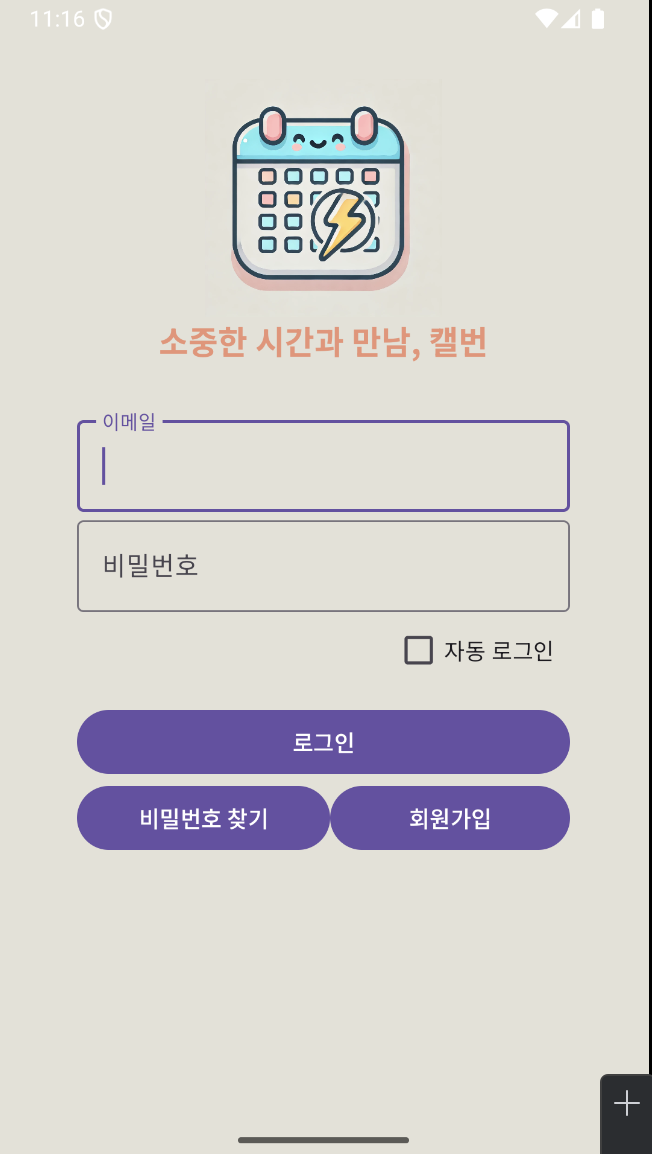
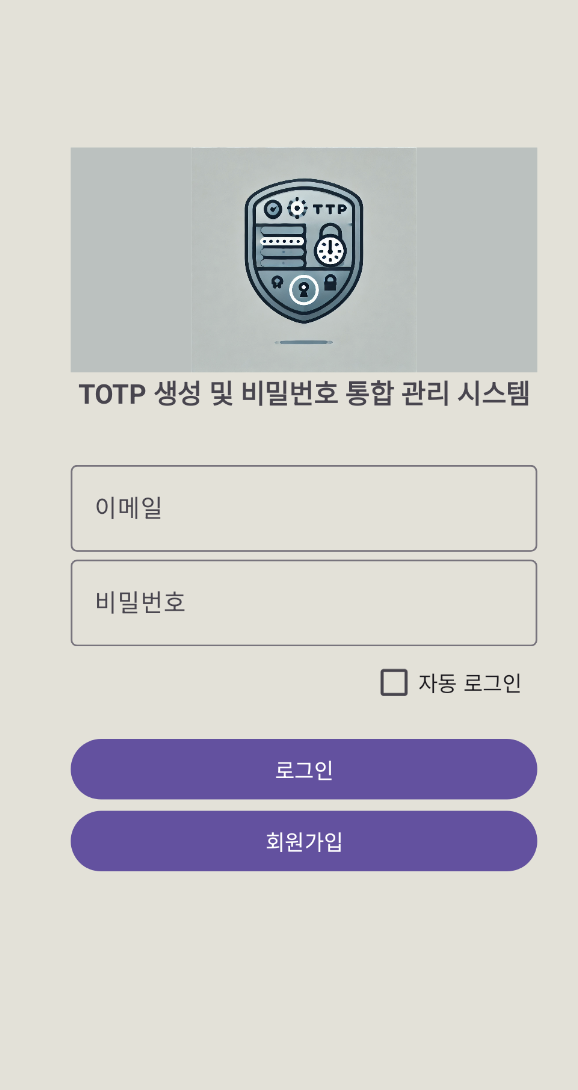
Update: README.md에 들어갈 img 전체 업데이트

diff --git a/backup_file/java_file/frag2.java b/backup_file/java_file/frag2.java
@@ -1,18 +1,141 @@
 package com.cookandroid.mobile_project;
 
+import android.annotation.SuppressLint;
+import android.content.Context;
+import android.content.Intent;
+import android.content.SharedPreferences;
 import android.os.Bundle;
+import android.util.Log;
 import android.view.LayoutInflater;
 import android.view.View;
 import android.view.ViewGroup;
+import android.widget.TextView;
+import android.widget.Toast;
 
+import androidx.activity.result.ActivityResultLauncher;
+import androidx.activity.result.contract.ActivityResultContracts;
 import androidx.annotation.NonNull;
 import androidx.annotation.Nullable;
 import androidx.fragment.app.Fragment;
 
+import com.cookandroid.mobile_project.util.TOTPUtil;
+import com.google.zxing.integration.android.IntentIntegrator;
+import com.google.zxing.integration.android.IntentResult;
+
+import java.net.URI;
+import java.net.URISyntaxException;
+
 public class frag2 extends Fragment {
+    private View scanButton;
+    private ActivityResultLauncher<Intent> qrScanLauncher;
+    private static final String PREFERENCE_NAME = "secure_prefs";
+    private static final String TOTP_SECRET_KEY = "totp_secret";
+    private View showTotpBtn;
+    private TextView totpTxt;
+
+
+    @SuppressLint("MissingInflatedId")
     @Nullable
     @Override
     public View onCreateView(@NonNull LayoutInflater inflater, @Nullable ViewGroup container, @Nullable Bundle savedInstanceState) {
-        return inflater.inflate(R.layout.frag2, container, false);
+        // 뷰 초기화
+        View view = inflater.inflate(R.layout.frag2, container, false);
+        scanButton = view.findViewById(R.id.scanBtn);
+        showTotpBtn = view.findViewById(R.id.showTotpBtn);
+        totpTxt = view.findViewById(R.id.totpTxt);
+
+
+        showTotpBtn.setOnClickListener(v -> {
+            showCurrentTotp();
+        });
+
+        // QR 코드 스캔 결과를 처리하는 ActivityResultLauncher
+        qrScanLauncher = registerForActivityResult(
+                new ActivityResultContracts.StartActivityForResult(),
+                result -> {
+                    IntentResult intentResult = IntentIntegrator.parseActivityResult(result.getResultCode(), result.getData());
+                    if(intentResult != null && intentResult.getContents() != null){
+                        parseAndSaveTotpKey(intentResult.getContents());
+                    } else{
+                        Toast.makeText(requireContext(), "QR 스캔 취소됨", Toast.LENGTH_SHORT).show();
+                    }
+                }
+        );
+
+        // QR 스캔 버튼 클릭 시 카메라 열기
+        scanButton.setOnClickListener(v -> {
+            IntentIntegrator integrator = new IntentIntegrator(requireActivity());
+            integrator.setPrompt("QR 코드를 스캔하세요.");
+            integrator.setOrientationLocked(false);
+            qrScanLauncher.launch(integrator.createScanIntent());
+        });
+
+        return view;
+    }
+
+    @SuppressLint("SetTextI18n")
+    private void parseAndSaveTotpKey(String url){
+        // QR 코드에서 비밀 키를 추출하여 SharedPreferences에 저장하는 함수
+        String secret = extractSecretFromURL(url);
+        if (secret != null){
+            // 비밀 키를 SharedPreferences에 안전하게 저장
+            saveSecretKey(secret);
+            Toast.makeText(requireContext(), "비밀 키 저장됨 : "+secret, Toast.LENGTH_SHORT).show();
+        } else{
+            Toast.makeText(requireContext(), "QR 코드에서 비밀 키를 추출 할 수 없습니다.", Toast.LENGTH_SHORT).show();
+        }
+    }
+
+    private String extractSecretFromURL(String url) {
+        // otpauth:// Url에서 secret 파라미터를 추출하는 함수
+        // ex. secret=JBSWY3DPEHPK3PXP
+        try{
+            URI uri = new URI(url);
+            String query = uri.getQuery();
+            if(query != null){
+                String[] params = query.split("&");
+                for (String param : params){
+                    if(param.startsWith("secret=")){
+                        return param.substring(7);
+                    }
+                }
+            }
+        } catch (URISyntaxException e) {
+            e.printStackTrace();
+        }
+        return null;
+    }
+
+    private void saveSecretKey(String secret){
+        // 비밀 키를 SharedPreferences에 안전하게 저장하는 함수
+        SharedPreferences sharedPreferences = requireActivity().getSharedPreferences(PREFERENCE_NAME, Context.MODE_PRIVATE);
+        SharedPreferences.Editor editor = sharedPreferences.edit();
+        editor.putString(TOTP_SECRET_KEY, secret);
+        editor.apply();
+    }
+
+    private String getSavedSecretKey(){
+        // 저장된 비밀 키를 SharedPreferences에서 읽어오는 함수
+        SharedPreferences sharedPreferences = requireActivity().getSharedPreferences(PREFERENCE_NAME, Context.MODE_PRIVATE);
+        return sharedPreferences.getString(TOTP_SECRET_KEY, null);
+    }
+
+    @SuppressLint("SetTextI18n")
+    private void showCurrentTotp(){
+        // base32 인코딩된 비밀키
+        String secret = getSavedSecretKey();
+        if (secret != null){
+            try{
+                // TOTP 생성기: 30초 주기, 6자리 코드
+                String code = TOTPUtil.getCurrentTOTP(secret);
+                totpTxt.setText("현재 TOTP : "+code);
+            } catch (Exception e){
+                e.printStackTrace();
+                Log.e("TOTP_ERROR", "TOTP 생성 중 오류", e);
+                Toast.makeText(getContext(), "TOTP 생성 중 오류 발생", Toast.LENGTH_SHORT).show();
+            }
+        } else{
+            Toast.makeText(getContext(), "저장된 비밀 키가 없습니다.", Toast.LENGTH_SHORT).show();
+        }
     }
 }

diff --git a/backup_file/java_file/LoginActivity.java b/backup_file/java_file/LoginActivity.java
@@ -1,25 +1,36 @@
 package com.cookandroid.mobile_project;
 
+import android.annotation.SuppressLint;
 import android.content.Intent;
+import android.content.SharedPreferences;
 import android.database.Cursor;
 import android.database.sqlite.SQLiteDatabase;
 import android.os.Bundle;
 import android.util.Log;
 import android.view.View;
 import android.widget.Button;
+import android.widget.CheckBox;
 import android.widget.EditText;
 import android.widget.Toast;
 
 import androidx.appcompat.app.AppCompatActivity;
+import androidx.security.crypto.EncryptedSharedPreferences;
+import androidx.security.crypto.MasterKey;
 
 import com.cookandroid.mobile_project.database.DBHelper;
+
+import java.io.IOException;
+import java.security.GeneralSecurityException;
 
 public class LoginActivity extends AppCompatActivity {
     private DBHelper dbHelper;
     private SQLiteDatabase database;
     private EditText emailEditText, passwordEditText;
     private Button loginButton, signupButton;
+    private CheckBox autoLoginCheckBox;
+    private SharedPreferences securePrefs;
 
+    @SuppressLint("MissingInflatedId")
     @Override
     protected void onCreate(Bundle savedInstanceState) {
         super.onCreate(savedInstanceState);
@@ -29,20 +40,60 @@ public class LoginActivity extends AppCompatActivity {
         passwordEditText = findViewById(R.id.passwordEditText);
         loginButton = findViewById(R.id.loginButton);
         signupButton = findViewById(R.id.signupButton);
+        autoLoginCheckBox = findViewById(R.id.autoLoginCheckBox);
 
         // DBHelper 초기화
         dbHelper = new DBHelper(this);
 
+        // 자동 로그인 확인
+        try{
+            MasterKey masterKey = new MasterKey.Builder(this)
+                    .setKeyScheme(MasterKey.KeyScheme.AES256_GCM)
+                    .build();
+
+            securePrefs = EncryptedSharedPreferences.create(
+                    this,
+                    "secure_prefs",
+                    masterKey,
+                    EncryptedSharedPreferences.PrefKeyEncryptionScheme.AES256_SIV,
+                    EncryptedSharedPreferences.PrefValueEncryptionScheme.AES256_GCM
+            );
+
+            // 자동 로그인 확인
+            boolean isLoggedIn = securePrefs.getBoolean("isLoggedIn", false);
+            if(isLoggedIn){
+                String savedEmail = securePrefs.getString("email", null);
+                if (savedEmail != null){
+                    // 자동 로그인 성공 -> MainActivity로 이동
+                    startActivity(new Intent(LoginActivity.this, MainActivity.class));
+                    finish();
+                    return;
+                }
+            }
+        } catch (GeneralSecurityException | IOException e){
+            e.printStackTrace();
+            Toast.makeText(this, "보안 설정 오류 발생", Toast.LENGTH_SHORT).show();
+        }
+
+
         loginButton.setOnClickListener(new View.OnClickListener() {
             @Override
             public void onClick(View v) {
-                String email = emailEditText.getText().toString();
-                String password = passwordEditText.getText().toString();
+                String email = emailEditText.getText().toString().trim();
+                String password = passwordEditText.getText().toString().trim();
                 if (email.isEmpty() || password.isEmpty()) {
                     Toast.makeText(LoginActivity.this, "아이디/비밀번호를 입력해주세요.", Toast.LENGTH_SHORT).show();
                 } else {
                     // 로그인 성공: MainActivity로 이동
                     if(checkLogin(email, password)) {
+                        // 자동 로그인 체크되어 있는 경우
+                        if(autoLoginCheckBox.isChecked()){
+                            SharedPreferences.Editor editor = securePrefs.edit();
+                            editor.putBoolean("isLoggedIn", true);
+                            editor.putString("email", email);
+                            editor.apply();
+                        }
+                        Toast.makeText(LoginActivity.this, "로그인 성공", Toast.LENGTH_SHORT).show();
                         startActivity(new Intent(LoginActivity.this, MainActivity.class));
                         finish();
                     } else {

diff --git a/backup_file/java_file/frag1.java b/backup_file/java_file/frag1.java
@@ -1,18 +1,73 @@
 package com.cookandroid.mobile_project;
 
+import android.annotation.SuppressLint;
 import android.os.Bundle;
+import android.text.TextUtils;
 import android.view.LayoutInflater;
 import android.view.View;
 import android.view.ViewGroup;
+import android.webkit.WebView;
+import android.webkit.WebViewClient;
+import android.widget.Button;
+import android.widget.EditText;
+import android.widget.Toast;
 
+import androidx.activity.OnBackPressedCallback;
 import androidx.annotation.NonNull;
 import androidx.annotation.Nullable;
 import androidx.fragment.app.Fragment;
 
 public class frag1 extends Fragment {
+    private EditText urlEditText;
+    private Button loadButton;
+    private WebView webView;
+
+    @SuppressLint("SetJavaScriptEnabled")
     @Nullable
     @Override
     public View onCreateView(@NonNull LayoutInflater inflater, @Nullable ViewGroup container, @Nullable Bundle savedInstanceState) {
-        return inflater.inflate(R.layout.frag1, container, false);
+        View view = inflater.inflate(R.layout.frag1, container, false);
+        urlEditText = view.findViewById(R.id.urlEditText);
+        loadButton = view.findViewById(R.id.loadButton);
+        webView = view.findViewById(R.id.webView);
+
+        webView.getSettings().setJavaScriptEnabled(true);
+        webView.setWebViewClient(new WebViewClient());
+
+        loadButton.setOnClickListener(v -> {
+            String input = urlEditText.getText().toString().trim();
+
+            if (TextUtils.isEmpty(input)){
+                Toast.makeText(getContext(), "주소를 입력하세요", Toast.LENGTH_SHORT).show();
+                return;
+            }
+
+            // http:// or https:// 없으면 자동 추가
+            if (!input.startsWith("http://") && !input.startsWith("https://")){
+                input = "https://" + input;
+            }
+            webView.loadUrl(input);
+        });
+        return view;
+    }
+
+    // 뒤로가기 버튼이 웹뷰에서 동작하게 설정 (안하면 앱이 뒤로가져서 앱이 나가짐)
+    @Override
+    public void onViewCreated(@NonNull View view, @Nullable Bundle savedInstanceState) {
+        super.onViewCreated(view, savedInstanceState);
+
+        requireActivity().getOnBackPressedDispatcher().addCallback(getViewLifecycleOwner(),
+                new OnBackPressedCallback(true) {
+                    @Override
+                    public void handleOnBackPressed() {
+                        if (webView.canGoBack()) {
+                            webView.goBack(); // 웹페이지 뒤로가기
+                        } else {
+                            setEnabled(false); // 콜백 비활성화 후 기본 동작 수행
+                            requireActivity().onBackPressed();
+                        }
+                    }
+                });
     }
 }
+

diff --git a/backup_file/java_file/frag3.java b/backup_file/java_file/frag3.java
@@ -1,18 +1,64 @@
 package com.cookandroid.mobile_project;
 
+import android.content.Intent;
+import android.content.SharedPreferences;
 import android.os.Bundle;
 import android.view.LayoutInflater;
 import android.view.View;
 import android.view.ViewGroup;
+import android.widget.Button;
 
 import androidx.annotation.NonNull;
 import androidx.annotation.Nullable;
 import androidx.fragment.app.Fragment;
+import androidx.security.crypto.EncryptedSharedPreferences;
+import androidx.security.crypto.MasterKey;
+
+import java.io.IOException;
+import java.security.GeneralSecurityException;
 
 public class frag3 extends Fragment {
+    private Button logoutButton;
+    private SharedPreferences securePrefs;
+
     @Nullable
     @Override
     public View onCreateView(@NonNull LayoutInflater inflater, @Nullable ViewGroup container, @Nullable Bundle savedInstanceState) {
-        return inflater.inflate(R.layout.frag3, container, false);
+        View view = inflater.inflate(R.layout.frag3, container, false);
+        logoutButton = view.findViewById(R.id.logoutButton);
+
+        try{
+            MasterKey masterKey = new MasterKey.Builder(requireContext())
+                    .setKeyScheme(MasterKey.KeyScheme.AES256_GCM)
+                    .build();
+
+            securePrefs = EncryptedSharedPreferences.create(
+                    requireContext(),
+                    "secure_prefs",
+                    masterKey,
+                    EncryptedSharedPreferences.PrefKeyEncryptionScheme.AES256_SIV,
+                    EncryptedSharedPreferences.PrefValueEncryptionScheme.AES256_GCM
+            );
+        } catch (GeneralSecurityException | IOException e) {
+            e.printStackTrace();
+        }
+
+        // 로그아웃 버튼
+        logoutButton.setOnClickListener(v -> {
+            if(securePrefs != null){
+                SharedPreferences.Editor editor = securePrefs.edit();
+                editor.putBoolean("autoLogin", false);
+                editor.remove("email");
+                editor.remove("password");
+                editor.apply();
+            }
+            // LoginActivity로 이동
+            Intent intent = new Intent(requireActivity(), LoginActivity.class);
+            intent.addFlags(Intent.FLAG_ACTIVITY_CLEAR_TOP);
+            startActivity(intent);
+            requireActivity().finish(); // MainActivity만 종료
+        });
+        return view;
     }
 }
+
